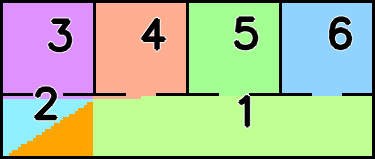
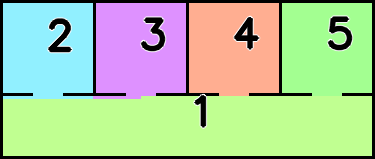
fix: reduce ROSE2 boundary and furniture oversegmentation

diff --git a/src/oomwoo_rose2/test/test_docs_maps.py b/src/oomwoo_rose2/test/test_docs_maps.py
@@ -32,18 +32,24 @@ def _source_from_render(relative_path: str, embedded_scale: int) -> SourceMap:
 
 
 @pytest.mark.slow
-@pytest.mark.parametrize(('relative_path', 'embedded_scale'), (
-    ('docs/demo/corridor4.render.png', 3),
-    ('docs/demo/grid6_furniture.render.png', 3),
-    ('docs/demo/living_room.render.png', 2),
-))
-def test_docs_map_produces_a_valid_result(relative_path, embedded_scale):
+@pytest.mark.parametrize(
+    ('relative_path', 'embedded_scale', 'expected_rooms', 'expected_unassigned'), (
+        ('docs/demo/corridor4.render.png', 3, 5, 0),
+        ('docs/demo/grid6_furniture.render.png', 3, 5, 0),
+        ('docs/demo/living_room.render.png', 2, 2, 0),
+        ('docs/demo/room3.png', 1, 5, 0),
+        ('docs/demo/two_rooms.render.png', 1, 2, 0),
+    ))
+def test_docs_map_produces_a_valid_result(
+    relative_path, embedded_scale, expected_rooms, expected_unassigned,
+):
     source = _source_from_render(relative_path, embedded_scale)
 
     result = Rose2Segmenter().segment(source, include_diagnostics=True)
 
     validate_result(result, source)
-    assert result.regions
+    assert len(result.regions) == expected_rooms
+    assert int(result.unassigned_cleanable_mask.sum()) == expected_unassigned
     assert not np.any(result.labels[~source.free_mask()])
     assert {item.stage for item in result.diagnostics} == {
         'cleaned_map', 'extended_lines', 'labels_overlay'}

diff --git a/src/oomwoo_rose2/oomwoo_rose2/upstream/object/ExtendedSegment.py b/src/oomwoo_rose2/oomwoo_rose2/upstream/object/ExtendedSegment.py
@@ -67,6 +67,24 @@ def create_extended_segments(x_min, x_max, y_min, y_max, extended_lines):
 					point2 = np.array([x_for_y_max, y_max])
 			seg = ExtendedSegment(point1, point2, line.angular_cluster, line.spatial_cluster)
 			extended_seg.append(seg)
+
+	# Synthetic frame segments are appended below. If Hough already found an
+	# exactly coincident frame line, keeping both gives create_cells() two
+	# indistinguishable edges; its traversal can then repeat two borders and
+	# omit the opposite pair, producing the lower-left triangular cell.
+	def on_frame(seg):
+		vertical = np.isclose(seg.x1, seg.x2, atol=1e-6)
+		horizontal = np.isclose(seg.y1, seg.y2, atol=1e-6)
+		return (
+			vertical and (
+				np.isclose(seg.x1, x_min, atol=1e-6)
+				or np.isclose(seg.x1, x_max, atol=1e-6))
+			or horizontal and (
+				np.isclose(seg.y1, y_min, atol=1e-6)
+				or np.isclose(seg.y1, y_max, atol=1e-6))
+		)
+
+	extended_seg = [seg for seg in extended_seg if not on_frame(seg)]
 	point1 = np.array([x_min, y_min])
 	point2 = np.array([x_min, y_max])
 	point3 = np.array([x_max, y_max])

diff --git a/src/oomwoo_rose2/oomwoo_rose2/engine.py b/src/oomwoo_rose2/oomwoo_rose2/engine.py
@@ -20,7 +20,7 @@ from oomwoo_segmentation.validation import canonicalize_labels, effective_cleana
 UPSTREAM_REPOSITORY = 'https://github.com/aislabunimi/ROSE2'
 UPSTREAM_COMMIT = '3a010b9e6bb2477de3b5b46208ebfccd71dfafbf'
 IMPLEMENTATION_ID = 'rose2'
-IMPLEMENTATION_VERSION = f'upstream-{UPSTREAM_COMMIT[:12]}+oomwoo.2'
+IMPLEMENTATION_VERSION = f'upstream-{UPSTREAM_COMMIT[:12]}+oomwoo.3'
 
 _LOG = logging.getLogger(__name__)
 
@@ -40,7 +40,7 @@ class Rose2Config:
     fft_peak_height: float = 0.2
     fft_band_width: int = 50
     spatial_clustering_line_segments_threshold: float = 5.0
-    lines_threshold: float = 0.0
+    lines_threshold: float = 0.22
     lines_distance_px: float = 20.0
     edges_threshold: float = 0.0
     rooms_voronoi: bool = False

diff --git a/src/oomwoo_rose2/test/test_engine.py b/src/oomwoo_rose2/test/test_engine.py
@@ -39,7 +39,9 @@ def make_map():
 
 
 def test_launch_profile_parameter_validation():
-    Rose2Config().validate()
+    config = Rose2Config()
+    config.validate()
+    assert config.lines_threshold == pytest.approx(0.22)
     with pytest.raises(SegmentationError, match='between 0 and 1'):
         Rose2Config(filter_level=1.1).validate()
 

diff --git a/docs/output/README.md b/docs/output/README.md
@@ -1,13 +1,15 @@
 # ROSE2 docs 地图修复后验证
 
-Provider：`rose2 upstream-3a010b9e6bb2+oomwoo.2`
+Provider：`rose2 upstream-3a010b9e6bb2+oomwoo.3`
 
 ## 本次修复
 
 - 修正竖直线分支在 `b == 0` 时先读取未初始化 `Y1` 的问题。
 - 外轮廓改为最大连通自由空间轮廓，不再固定访问第二个非自由空间 contour；支持无 unknown 外围的裁剪地图，也避免把家具岛误选为房间外边界。
 - 在构造 Shapely Polygon 前过滤少于三个不同顶点的退化 cell。
-- 新增 `test_docs_maps.py`，通过 `Rose2Segmenter.segment()` 公共接口覆盖原先失败的三张地图。
+- 去除与四条 synthetic frame lines 精确重合的检测线，避免 `create_cells()` 选择重复边并生成左下角三角形 cell。
+- 默认 `lines_threshold=0.22`，过滤由家具 Hough segments 生成的低支持度全图延伸线。
+- `test_docs_maps.py` 通过 `Rose2Segmenter.segment()` 公共接口固定五张地图的房间数和未分配 cell 数。
 
 ## 输入处理
 
@@ -25,9 +27,9 @@ Provider：`rose2 upstream-3a010b9e6bb2+oomwoo.2`
 
 | 场景 | 结果 | 未分配 | 目视判断 |
 | --- | ---: | ---: | --- |
-| corridor4 | 6 rooms | 270 cells / 4.4% | 不再崩溃，但走廊被切成两个区域并出现斜向未分配带；预期约 5 rooms，仍过分割 |
-| grid6_furniture | 5 rooms | 420 cells / 7.9% | 不再崩溃，但右侧上下区域被合并，并有斜向未分配带；预期约 6 rooms，仍欠分割 |
-| living_room | 3 rooms | 0 | 不再崩溃，但单个真实房间被家具/边界线切成 3 个区域；预期 1 room，仍过分割 |
+| corridor4 | 5 rooms | 0 | 左下角三角形及走廊重复分区已消失，4 个房间 + 走廊符合预期 |
+| grid6_furniture | 5 rooms | 0 | 左下角三角形及未分配带已消失；右侧上下区域仍被合并，预期约 6 rooms，仍欠分割 |
+| living_room | 2 rooms | 0 | 家具造成的主体左右切分已消失；主房间为一个标签，但顶部外围条带仍是独立标签，预期整体 1 room |
 | room3 | 5 rooms | 0 | 主要墙体和空间边界目视合理 |
 | two_rooms | 2 rooms | 0 | 结果符合预期；修复前的 19-cell 微小伪区域已消失 |
 
@@ -49,4 +51,4 @@ Provider：`rose2 upstream-3a010b9e6bb2+oomwoo.2`
 
 ## 结论
 
-三个运行时失败已经修复：5/5 地图均能通过 Action Server 返回满足公共 labels/rooms 契约的结果。修复解决的是崩溃、错误外轮廓和微小伪区域问题；`corridor4`、`grid6_furniture`、`living_room` 仍暴露上游 ROSE2 的过/欠分割质量限制，不能仅凭“成功返回”视为算法效果达标。当前仓库没有人工真值 label mask，因此报告只进行房间数量、边界和未分配率的结构/目视判断，未计算 IoU。
+5/5 地图均能通过 Action Server 返回满足公共 labels/rooms 契约的结果。左下角重复边问题已修复，`corridor4` 达到预期；家具低支持度延伸线已过滤，`living_room` 主体不再被家具切分。尚未处理的是 `grid6_furniture` 右侧上下房间欠分割，以及 `living_room` 高支持度外墙与 map frame 之间的顶部外围条带；它们属于下一阶段的 doorway/structural-interior 判定问题。当前仓库没有人工真值 label mask，因此报告只进行房间数量、边界和未分配率的结构/目视判断，未计算 IoU。

diff --git a/docs/DEVELOPMENT.md b/docs/DEVELOPMENT.md
@@ -78,7 +78,7 @@ The shared interface is `oomwoo_segmentation_interfaces/action/SegmentRooms`. A 
 
 This branch has one production adapter: `oomwoo_rose2`, derived from `aislabunimi/ROSE2` commit `3a010b9e6bb2477de3b5b46208ebfccd71dfafbf`. It preserves the upstream two-stage computation: occupancy image → ROSE FFT structural filtering and dominant directions → ROSE2 Hough walls, angular/spatial clustering, extended lines, edges, cells, affinity matrix/DBSCAN → Shapely room polygons → canonical source-grid labels. The ROS1 nodes, services, RViz dependencies, and pickled Python-object messages are replaced by the typed ROS 2 action. Source provenance, GPLv3, and compatibility changes are recorded in `src/oomwoo_rose2/THIRD_PARTY.md`.
 
-The default parameter profile follows the pinned upstream `ROSE.launch`: `filter_level=0.18`, spatial threshold 5, retained-line/edge thresholds 0, line merge distance 20 px, and `rooms_voronoi=false`. The optional Voronoi path remains available through provider parameters. Keepouts are presented to ROSE as occupied cells and the canonical result is clipped again afterwards.
+The default parameter profile is based on the pinned upstream `ROSE.launch`: `filter_level=0.18`, spatial threshold 5, retained-line threshold 0.22, retained-edge threshold 0, line merge distance 20 px, and `rooms_voronoi=false`. The 0.22 line-support floor is an OOMWOO compatibility profile change that rejects the demonstrated furniture-derived full-map line; it remains configurable. The optional Voronoi path remains available through provider parameters. Keepouts are presented to ROSE as occupied cells and the canonical result is clipped again afterwards.
 
 The removed maximin/watershed, merge-tree/saddle, doorway clipping/topology, and skeleton doorway-demo implementations have no source, runtime switch, fallback, parameter, or test path in this branch. The shared result deliberately has no legacy `Doorway` or `low_confidence` fields. Future doorway/topology work must derive from ROSE2 typed edges/lines/polygons as a separate capability.
 

diff --git a/src/oomwoo_rose2/THIRD_PARTY.md b/src/oomwoo_rose2/THIRD_PARTY.md
@@ -18,6 +18,8 @@ The original license is installed as `LICENSE`.
 - Fixed two vertical-line branches that read `Y1` before initialization because the `b == 0` guard was evaluated second.
 - Replaced the brittle hard-coded second non-free contour with the largest connected free-space contour; this handles cropped maps and avoids selecting furniture as the layout boundary.
 - Ignore degenerate cells with fewer than three distinct vertices before constructing Shapely polygons, matching the intended empty/outside-cell behavior on modern Shapely.
+- Deduplicate detected lines that exactly coincide with the four synthetic frame lines before edge/cell construction; duplicate borders previously produced a triangular lower-left cell with missing opposite edges.
+- Raise the default retained-line support floor from upstream `0.0` to `0.22`; this rejects the demonstrated low-support full-map line generated from furniture while preserving the regression fixtures' structural walls. The value remains a provider parameter.
 - Added `oomwoo_rose2.engine` to adapt `SourceMap`/cleanable masks to the original two-stage ROSE + ROSE2 pipeline and canonical label grids.
 - Replaced ROS 1 publishers, services, pickled custom messages, and launch files with the typed `oomwoo_segmentation_interfaces/SegmentRooms` ROS 2 action.
 - Added deterministic label canonicalization and in-memory diagnostics.

diff --git a/docs/ROSE2_MIGRATION_PLAN.md b/docs/ROSE2_MIGRATION_PLAN.md
@@ -57,8 +57,8 @@ ROS 1 nodes, services, RViz integration, and pickled Python-object messages are 
 
 - Joint `colcon build` of all five affected packages: passed.
 - Full `colcon test` and `colcon test-result --verbose`: passed.
-- Full source pytest with ROSE2 dependencies: 83 passed, including Qt worker execution, stale-map-result rejection, strict shared-contract validation, post-extraction cancellation, and the three former docs-map crash regressions.
-- ROSE2 provider tests with full dependencies: 8 passed, including the real pinned upstream pipeline and cropped/real-map compatibility cases.
+- Full source pytest with ROSE2 dependencies: 85 passed, including Qt worker execution, stale-map-result rejection, strict shared-contract validation, post-extraction cancellation, and five exact docs-map room/unassigned regressions.
+- ROSE2 provider tests with full dependencies: 10 passed, including the real pinned upstream pipeline, cropped/real-map compatibility, frame-line deduplication, and furniture-line filtering cases.
 - End-to-end ROS 2 server/client test: cancellation returned Action `CANCELED` plus contract `STATUS_CANCELLED`; a subsequent goal succeeded and produced base, final segmentation, cleaned-map, extended-line, and label-overlay PNGs.
 - Legacy algorithm symbol scan: no runtime implementation or fallback remained.
 - `git diff --check`: passed.

diff --git a/src/oomwoo_rose2/README.md b/src/oomwoo_rose2/README.md
@@ -18,4 +18,4 @@ It intentionally replaces ROS 1 wrappers and pickled message payloads with the t
 ros2 launch oomwoo_rose2 rose2.launch.py
 ```
 
-The action is available at `/room_segmentation/segment`. Parameters are in `config/rose2.yaml` and match the pinned upstream `ROSE.launch` profile. `rooms_voronoi` enables the optional upstream Voronoi refinement and its additional `networkx`, `skan`, and plotting dependencies.
+The action is available at `/room_segmentation/segment`. Parameters are in `config/rose2.yaml` and are based on the pinned upstream `ROSE.launch` profile. The documented OOMWOO profile raises `lines_threshold` to `0.22` to reject low-support furniture-derived full-map lines; deployments can override it as a node parameter. `rooms_voronoi` enables the optional upstream Voronoi refinement and its additional `networkx`, `skan`, and plotting dependencies.
